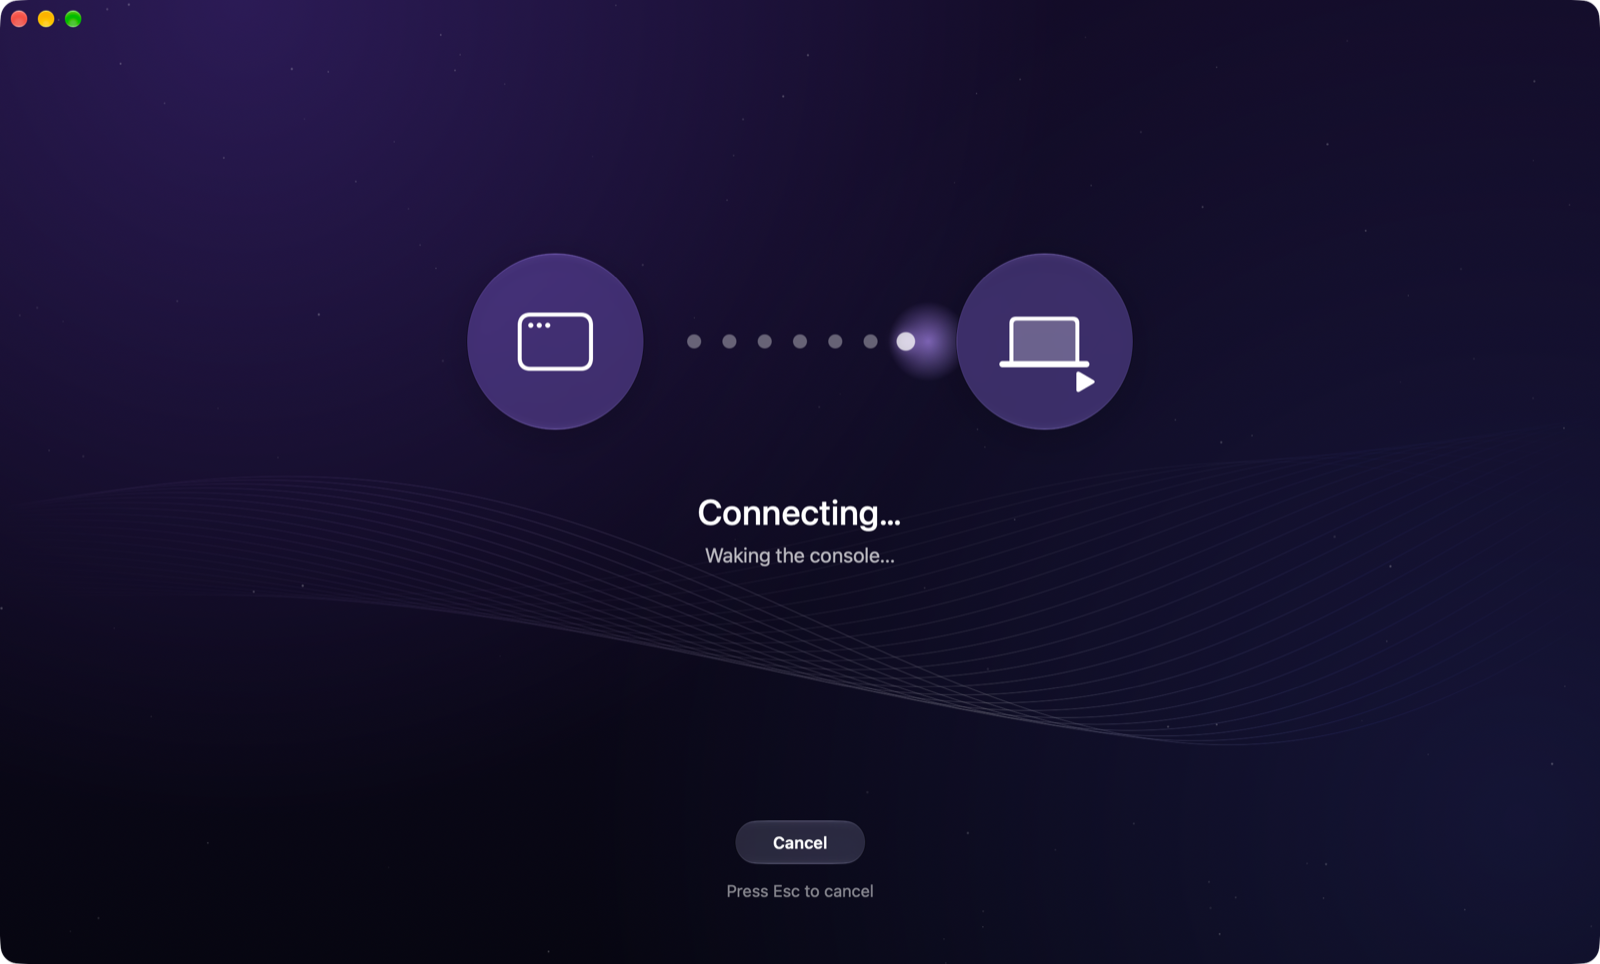
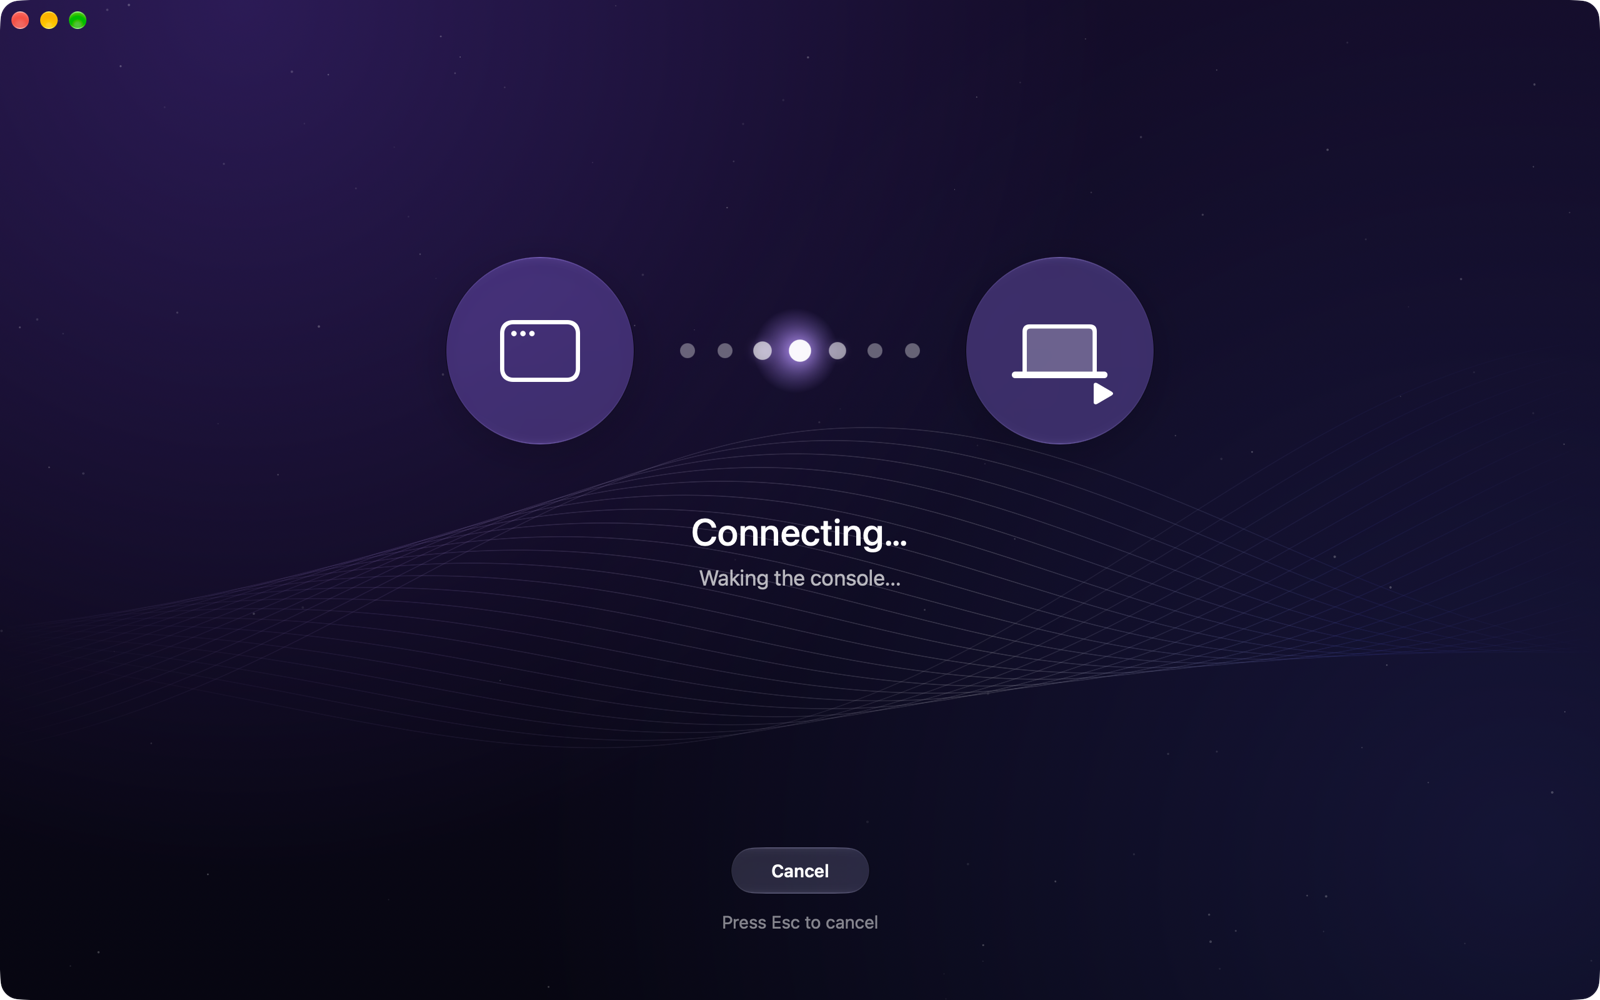
Refresh README screenshots for FluidPlay
- New English screenshots of the home, connecting and in-game screens (new icon and name,
  generic controller artwork instead of the PlayStation watermark).
- Brand wordmark reads "FluidPlay" without a gap.
- UI test keeps the in-game bar visible for its screenshot even when the pointer is outside
  the window.

diff --git a/Sources/FluidPlay/App/UITest.swift b/Sources/FluidPlay/App/UITest.swift
@@ -12,6 +12,8 @@ enum UITest {
     private static var started = false
     /// The in-game bar shows console buttons even with a test pattern (so they're visible in the screenshot).
     static var showsConsoleControls = false
+    /// Keeps the in-game bar on screen for the screenshot even when the pointer is outside the window.
+    static var keepsChromeVisible = false
 
     static func runIfRequested(model: AppModel) {
         let arguments = CommandLine.arguments
@@ -47,10 +49,12 @@ enum UITest {
                 NSApp.terminate(nil)
                 return
             }
+            keepsChromeVisible = true
             model.play(item)
             try? await Task.sleep(for: .seconds(1.2))
             await capture(model.mainWindow, to: directory.appendingPathComponent("2-game-island.png"))
             report(model)
+            keepsChromeVisible = false
 
             try? await Task.sleep(for: .seconds(3))
             await capture(model.mainWindow, to: directory.appendingPathComponent("3-game-no-island.png"))

diff --git a/Sources/FluidPlay/UI/HomeView.swift b/Sources/FluidPlay/UI/HomeView.swift
@@ -53,7 +53,7 @@ struct HomeView: View {
             HStack(spacing: 12) {
                 HStack(spacing: 10) {
                     AppMark(size: 30)
-                    HStack(spacing: 5) {
+                    HStack(spacing: 0) {
                         Text(verbatim: "Fluid")
                             .font(.system(size: 17, weight: .bold, design: .rounded))
                         Text(verbatim: "Play")

diff --git a/Sources/FluidPlay/UI/PlayerView.swift b/Sources/FluidPlay/UI/PlayerView.swift
@@ -52,7 +52,7 @@ final class ChromeController: ObservableObject {
     }
 
     private func timerFired() {
-        if islandHovered || panelOpen {
+        if islandHovered || panelOpen || UITest.keepsChromeVisible {
             restartTimer()
             return
         }
